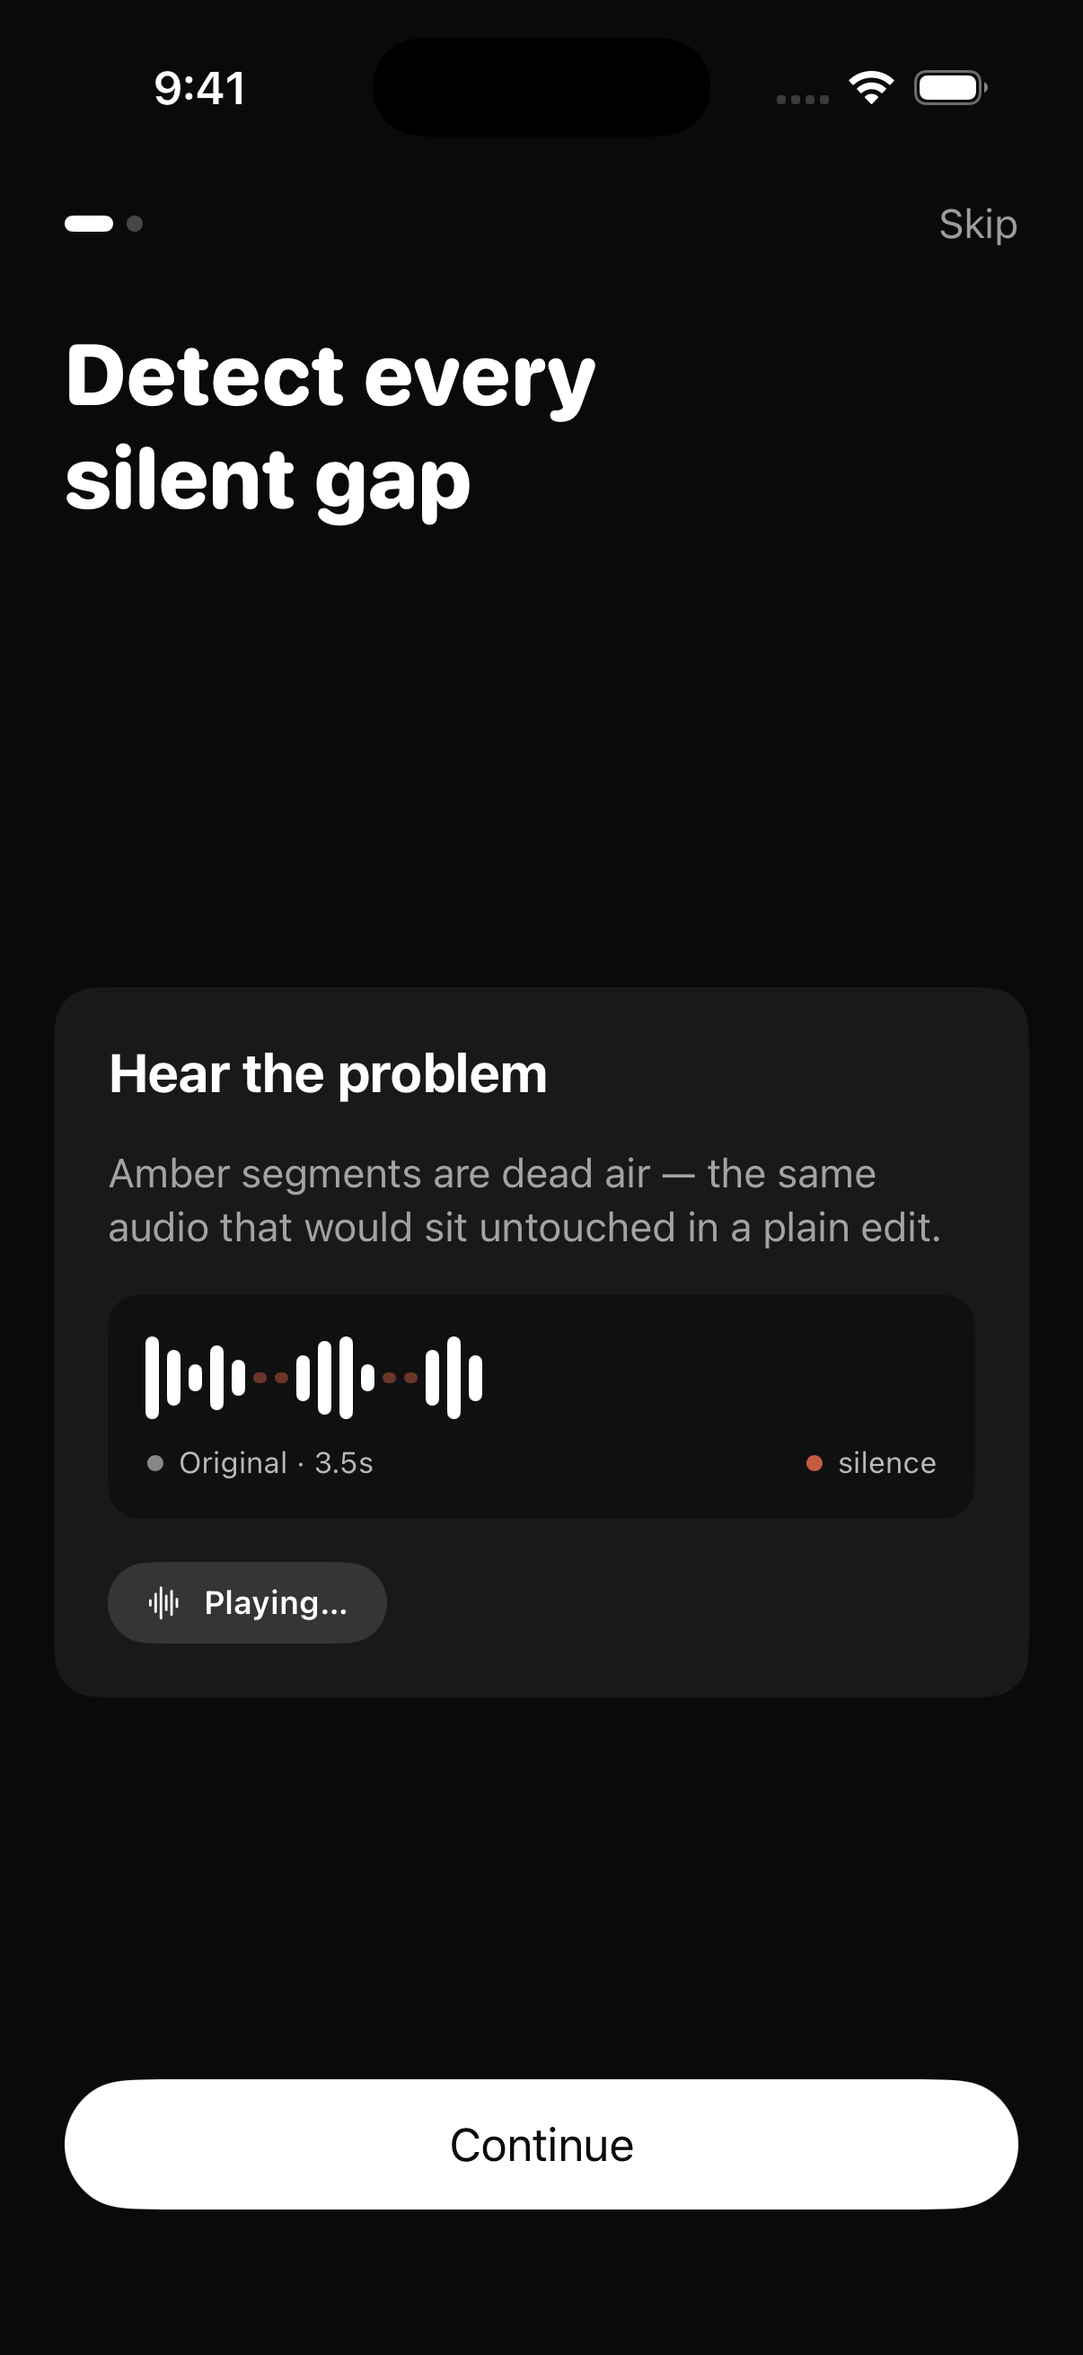
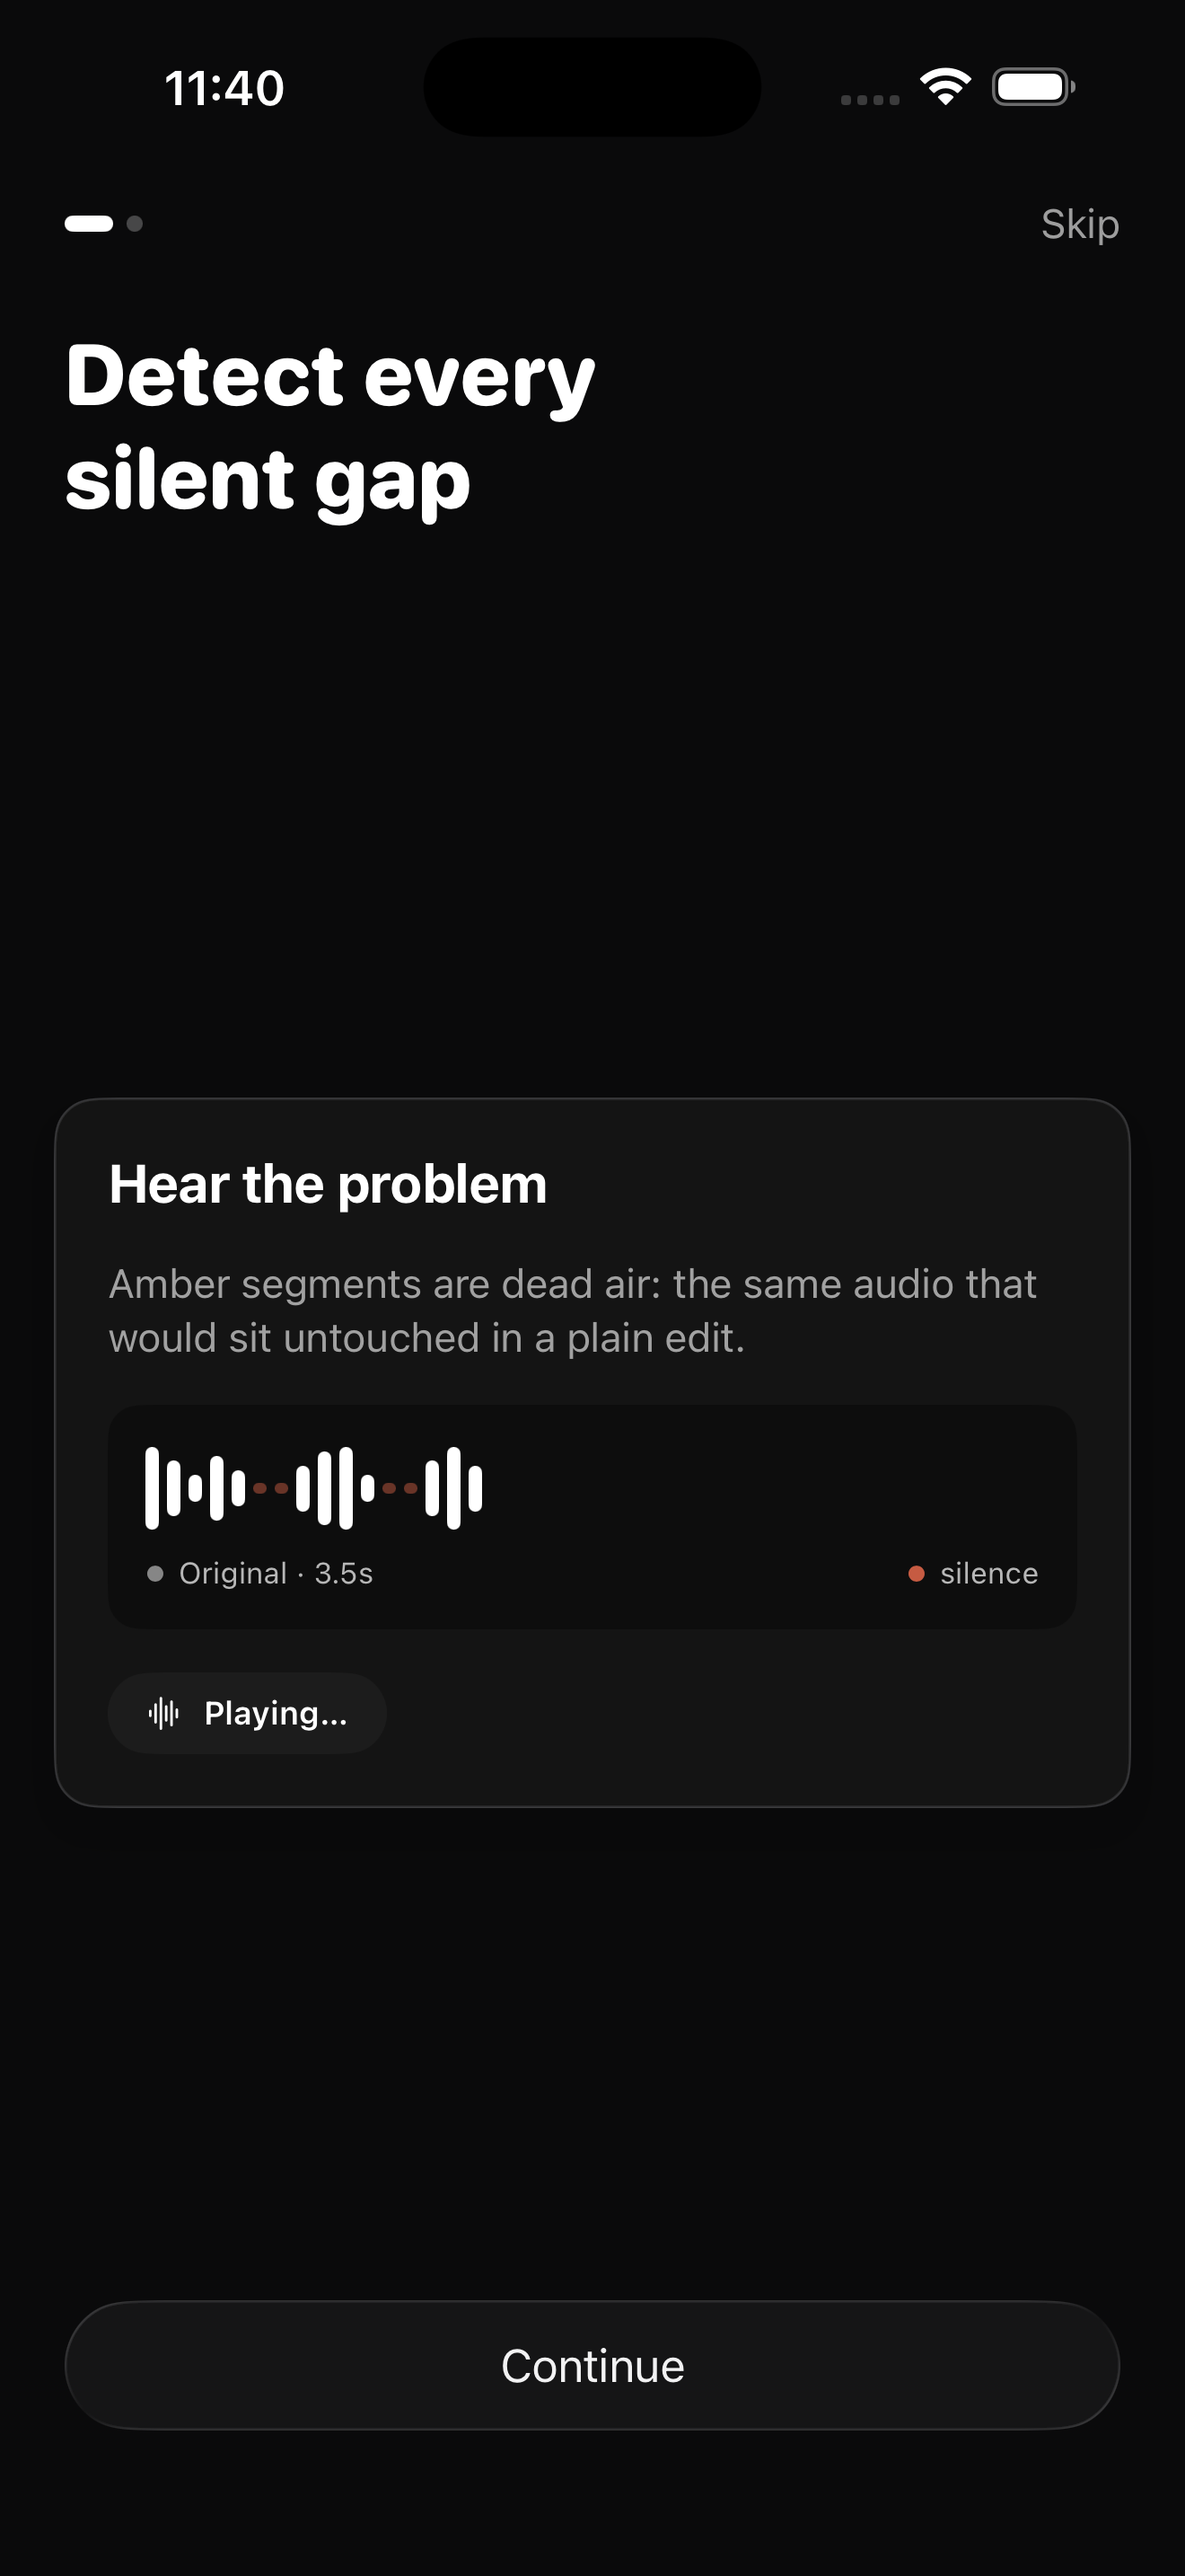
Fix 3 localization gaps found while capturing PT-BR marketing screenshots; refresh screenshots
- Compress size estimate (bigger/smaller) was a ternary Text() that silently
  stopped localizing - rewritten as literal Text concatenation.
- Compression quality tiers (Small/Balanced/Best quality) and appearance
  options (Auto/Light/Dark) had PT catalog entries but were never wrapped in
  LocalizedStringKey at their Picker call sites, so they always showed English.
- Split for Stories said 1 clips instead of 1 clip in two places.

Screenshots (onboarding, home, compress) replaced with build-14 captures
showing native Liquid Glass and all four Home tools.

diff --git a/VideoCompressor/CompressOnlyView.swift b/VideoCompressor/CompressOnlyView.swift
@@ -280,7 +280,7 @@ struct CompressOnlyView: View {
                 Text("Quality").font(.caption).foregroundStyle(Theme.inkSoft)
                 Picker("Quality", selection: $tierRawValue) {
                     ForEach(CompressionTier.allCases) { tier in
-                        Text(tier.label).tag(tier.rawValue)
+                        Text(LocalizedStringKey(tier.label)).tag(tier.rawValue)
                     }
                 }
                 .pickerStyle(.segmented)
@@ -489,7 +489,7 @@ struct CompressOnlyView: View {
         VStack(alignment: .leading, spacing: 8) {
             Picker("Quality", selection: $tierRawValue) {
                 ForEach(CompressionTier.allCases) { tier in
-                    Text(tier.label).tag(tier.rawValue)
+                    Text(LocalizedStringKey(tier.label)).tag(tier.rawValue)
                 }
             }
             .pickerStyle(.segmented)
@@ -503,7 +503,13 @@ struct CompressOnlyView: View {
                         .foregroundStyle(Theme.inkSoft)
                     if let originalSizeBytes, originalSizeBytes > 0 {
                         let estimatedSavings = ByteFormatting.savingsPercentage(originalBytes: originalSizeBytes, compressedBytes: estimate)
-                        Text("(~\(estimatedSavings)% smaller)")
+                        Group {
+                            if estimatedSavings >= 0 {
+                                Text("(~") + Text("\(estimatedSavings)") + Text("% smaller)")
+                            } else {
+                                Text("(~") + Text("\(-estimatedSavings)") + Text("% bigger)")
+                            }
+                        }
                             .font(.caption2.weight(.semibold))
                             .foregroundStyle(Theme.accent)
                     }

diff --git a/VideoCompressor/StorySplitView.swift b/VideoCompressor/StorySplitView.swift
@@ -69,7 +69,7 @@ struct StorySplitView: View {
                             if sourceDurationSeconds == nil {
                                 Text("Reading video…")
                             } else {
-                                Text("Split into ") + Text("\(expectedCount) ") + Text("clips")
+                                Text("Split into ") + Text("\(expectedCount) ") + Text(expectedCount == 1 ? "clip" : "clips")
                             }
                         }
                             .frame(maxWidth: .infinity)
@@ -173,7 +173,7 @@ struct StorySplitView: View {
 
             HStack(spacing: 6) {
                 Image(systemName: "square.stack.3d.up").font(.caption2).foregroundStyle(Theme.inkSoft)
-                (Text("Will produce ") + Text("\(expectedCount) ") + Text("clips, in order"))
+                (Text("Will produce ") + Text("\(expectedCount) ") + Text(expectedCount == 1 ? "clip, in order" : "clips, in order"))
                     .font(.caption2)
                     .foregroundStyle(Theme.inkSoft)
             }

diff --git a/VideoCompressor/AccountView.swift b/VideoCompressor/AccountView.swift
@@ -158,14 +158,14 @@ struct AccountView: View {
                 }
                 Picker("Appearance", selection: $appearanceRawValue) {
                     ForEach(AppAppearance.allCases) { appearance in
-                        Text(appearance.label).tag(appearance.rawValue)
+                        Text(LocalizedStringKey(appearance.label)).tag(appearance.rawValue)
                     }
                 }
                 VStack(alignment: .leading, spacing: 8) {
                     Text("Default compression quality")
                     Picker("Default compression quality", selection: $tierRawValue) {
                         ForEach(CompressionTier.allCases) { tier in
-                            Text(tier.label).tag(tier.rawValue)
+                            Text(LocalizedStringKey(tier.label)).tag(tier.rawValue)
                         }
                     }
                     .pickerStyle(.segmented)

diff --git a/README.md b/README.md
@@ -60,11 +60,12 @@ To run on a physical device, open the project in Xcode, pick the device, and hit
 
 Real screenshots, iPhone 17 Simulator, iOS 26.5:
 
-| Onboarding | Login | Home | Account |
-|---|---|---|---|
-| ![onboarding](docs/screenshots/onboarding.png) | ![login](docs/screenshots/login.png) | ![home](docs/screenshots/home.png) | ![account](docs/screenshots/account.png) |
+| Onboarding | Home | Compress | Login | Account |
+|---|---|---|---|---|
+| ![onboarding](docs/screenshots/onboarding.png) | ![home](docs/screenshots/home.png) | ![compress](docs/screenshots/compress.png) | ![login](docs/screenshots/login.png) | ![account](docs/screenshots/account.png) |
 
-*(Screenshots predate the build-14 Liquid Glass pass and the Find Duplicates/Split for Stories tools on Home — updated captures are coming.)*
+Home, Onboarding, and Compress reflect build 14 — native iOS 26 Liquid Glass and all
+four tools (Compress, Cut, Find Duplicates, Split for Stories).
 
 Full visual identity reference (logo, palette, type, and every screen mocked up before implementation) is in `docs/design-mockup.md`.
 
